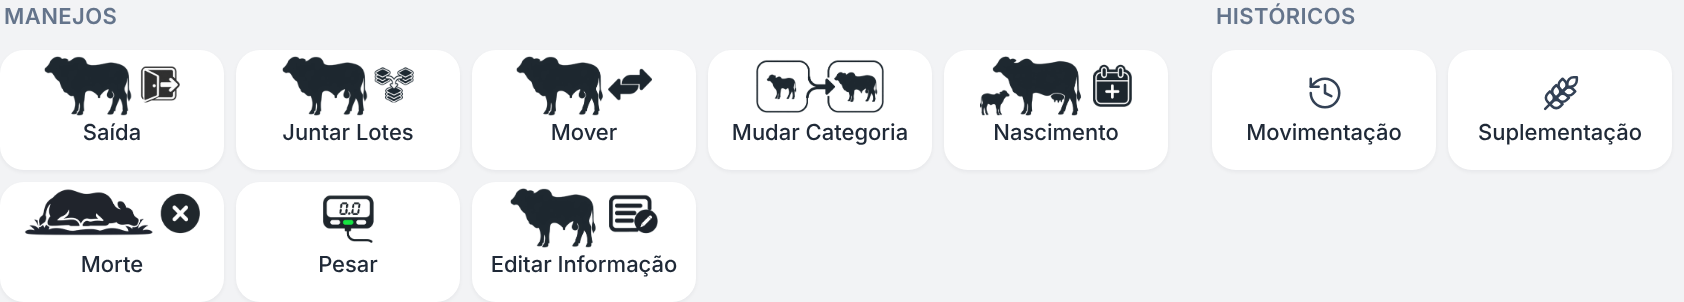
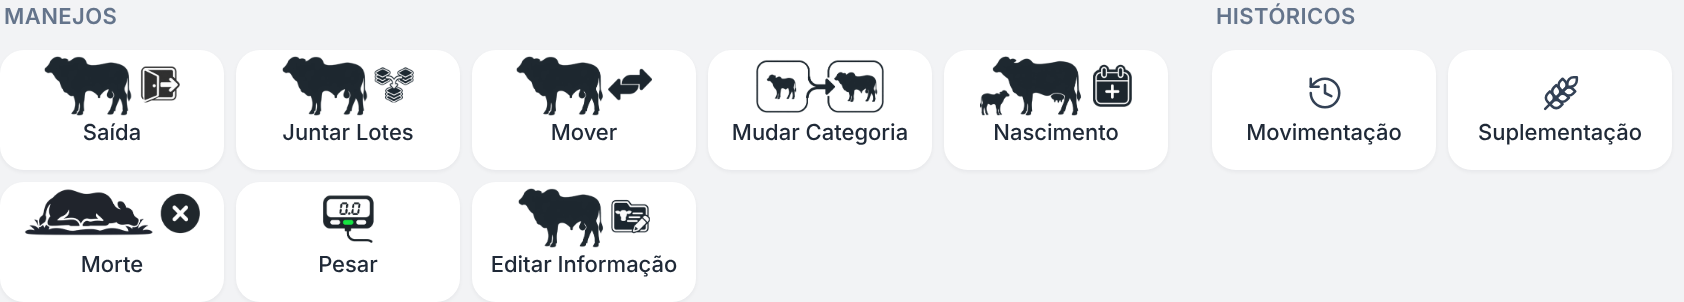
Manejos: nova imagem do Editar Informação (D-PROD-131)
Claude-Session: https://claude.ai/code/session_01UazgFfaVrfzGvoj5VQP7sQ

Changed region(s): [[0.3088, 0.6258, 0.4014, 0.8344], [0.2779, 0.6556, 0.3088, 0.6854]]

diff --git a/src/components/mapa/IconesManejo.jsx b/src/components/mapa/IconesManejo.jsx
@@ -36,5 +36,5 @@ export const IconeJuntarLotes = iconeImagem("/icons/juntar-lotes.png");
 /** Mudar Categoria: bezerro → boi, cada um num quadro, com a seta entre eles. */
 export const IconeMudarCategoria = iconeImagem("/icons/mudar-categoria.png");
 
-/** Editar Informação (antigo "Renomear Lote"): boi com a ficha e o lápis. */
+/** Editar Informação (antigo "Renomear Lote"): boi com a pasta da ficha e o lápis. */
 export const IconeEditarInformacao = iconeImagem("/icons/editar-informacao.png");

diff --git a/docs/engineering/UX-MOBILE-V2-REPORT.md b/docs/engineering/UX-MOBILE-V2-REPORT.md
@@ -333,7 +333,7 @@ O novo visual dos botões do Mapa Geral (D-PROD-131: painel Visualização, sem 
 
 | Pedido | Feito | Evidência |
 |---|---|---|
-| Usar as imagens enviadas no Saída (boi com seta, antigo Abate), no Mover (boi com setas), no Pesar (balança), no Nascimento (vaca com bezerro) na Morte (animal deitado com X) no Juntar Lotes (boi com setas que se encontram) no Mudar Categoria (bezerro para boi) e no Editar Informação (boi com ficha e lápis), e deixá-las maiores; trocar os nomes "Abate" por "Saída" e "Renomear Lote" por "Editar Informação" | Os quadros mostram as imagens maiores, sem aumentar o quadro e com o nome alinhado | v21-01 (computador), v21-02 (celular) |
+| Usar as imagens enviadas no Saída (boi com seta, antigo Abate), no Mover (boi com setas), no Pesar (balança), no Nascimento (vaca com bezerro) na Morte (animal deitado com X) no Juntar Lotes (boi com setas que se encontram) no Mudar Categoria (bezerro para boi) e no Editar Informação (boi com a pasta da ficha e lápis), e deixá-las maiores; trocar os nomes "Abate" por "Saída" e "Renomear Lote" por "Editar Informação" | Os quadros mostram as imagens maiores, sem aumentar o quadro e com o nome alinhado | v21-01 (computador), v21-02 (celular) |
 
 **Não testado em aparelho.**
 

diff --git a/docs/engineering/DECISIONS.md b/docs/engineering/DECISIONS.md
@@ -5044,7 +5044,7 @@ Em cada cadeia: bloqueio antes do clique, exclusão do dependente, desbloqueio s
   - Morte: um animal deitado com um X;
   - Juntar Lotes: um boi com camadas que se juntam numa só;
   - Mudar Categoria: um bezerro e um boi, cada um num quadro, com uma seta entre eles;
-  - Editar Informação: um boi com uma ficha e um lápis.
+  - Editar Informação: um boi com a pasta da ficha do animal e um lápis.
 - **Decisão:**
   - Os quadros "Saída", "Mover", "Pesar", "Nascimento", "Morte", "Juntar Lotes", "Mudar Categoria" e "Editar Informação" dos Manejos (Detalhes do Lote) usam essas imagens no lugar dos ícones `Beef`, `ArrowLeftRight`, `Scale`, `Baby`, `HeartCrack`, `Combine`, `Tags` e `PencilLine`.
   - O quadro "Abate" passa a se chamar **"Saída"**, e a janela passa a ser "Registrar Saída". O registro continua sendo o mesmo manejo de abate: tipo `Abate`, `FormularioAbate` e a permissão `registrar_abate`.
